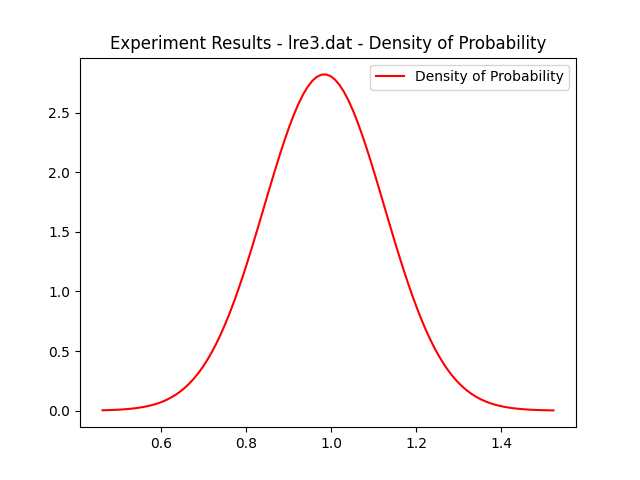
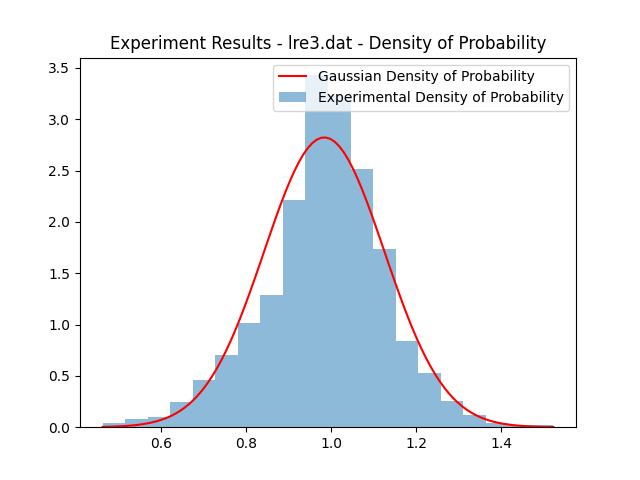
added histogram

diff --git a/output_fn.py b/output_fn.py
@@ -25,7 +25,7 @@ def plot_table(results, filename):
     
 def plot_density_probability(experimental_data, filename):
     """
-    Plot Gaussian density of probability and save the image.
+    Plot density probability curves and save the image, comparing them with the corresponding Gaussian density probability distribution.
 
     Args:
     - experimental_data (ExperimentalData): ExperimentalData object.
@@ -35,7 +35,8 @@ def plot_density_probability(experimental_data, filename):
     sigma = experimental_data.standard_deviation
     x = np.linspace(min(experimental_data.raw_speed), max(experimental_data.raw_speed), 100)
     y = (1 / (sigma * np.sqrt(2 * np.pi))) * np.exp(-0.5 * ((x - mu) / sigma) ** 2)
-    plt.plot(x, y, color='red', label='Density of Probability')
+    plt.plot(x, y, color='red', label='Gaussian Density of Probability')
+    plt.hist(experimental_data.raw_speed, density=True, bins=20, alpha=0.5, label='Experimental Density of Probability')
     plt.title(f'Experiment Results - {filename} - Density of Probability')
     plt.legend()
     plt.savefig(f'images/plots/{filename}_density_probability_plot.png')
